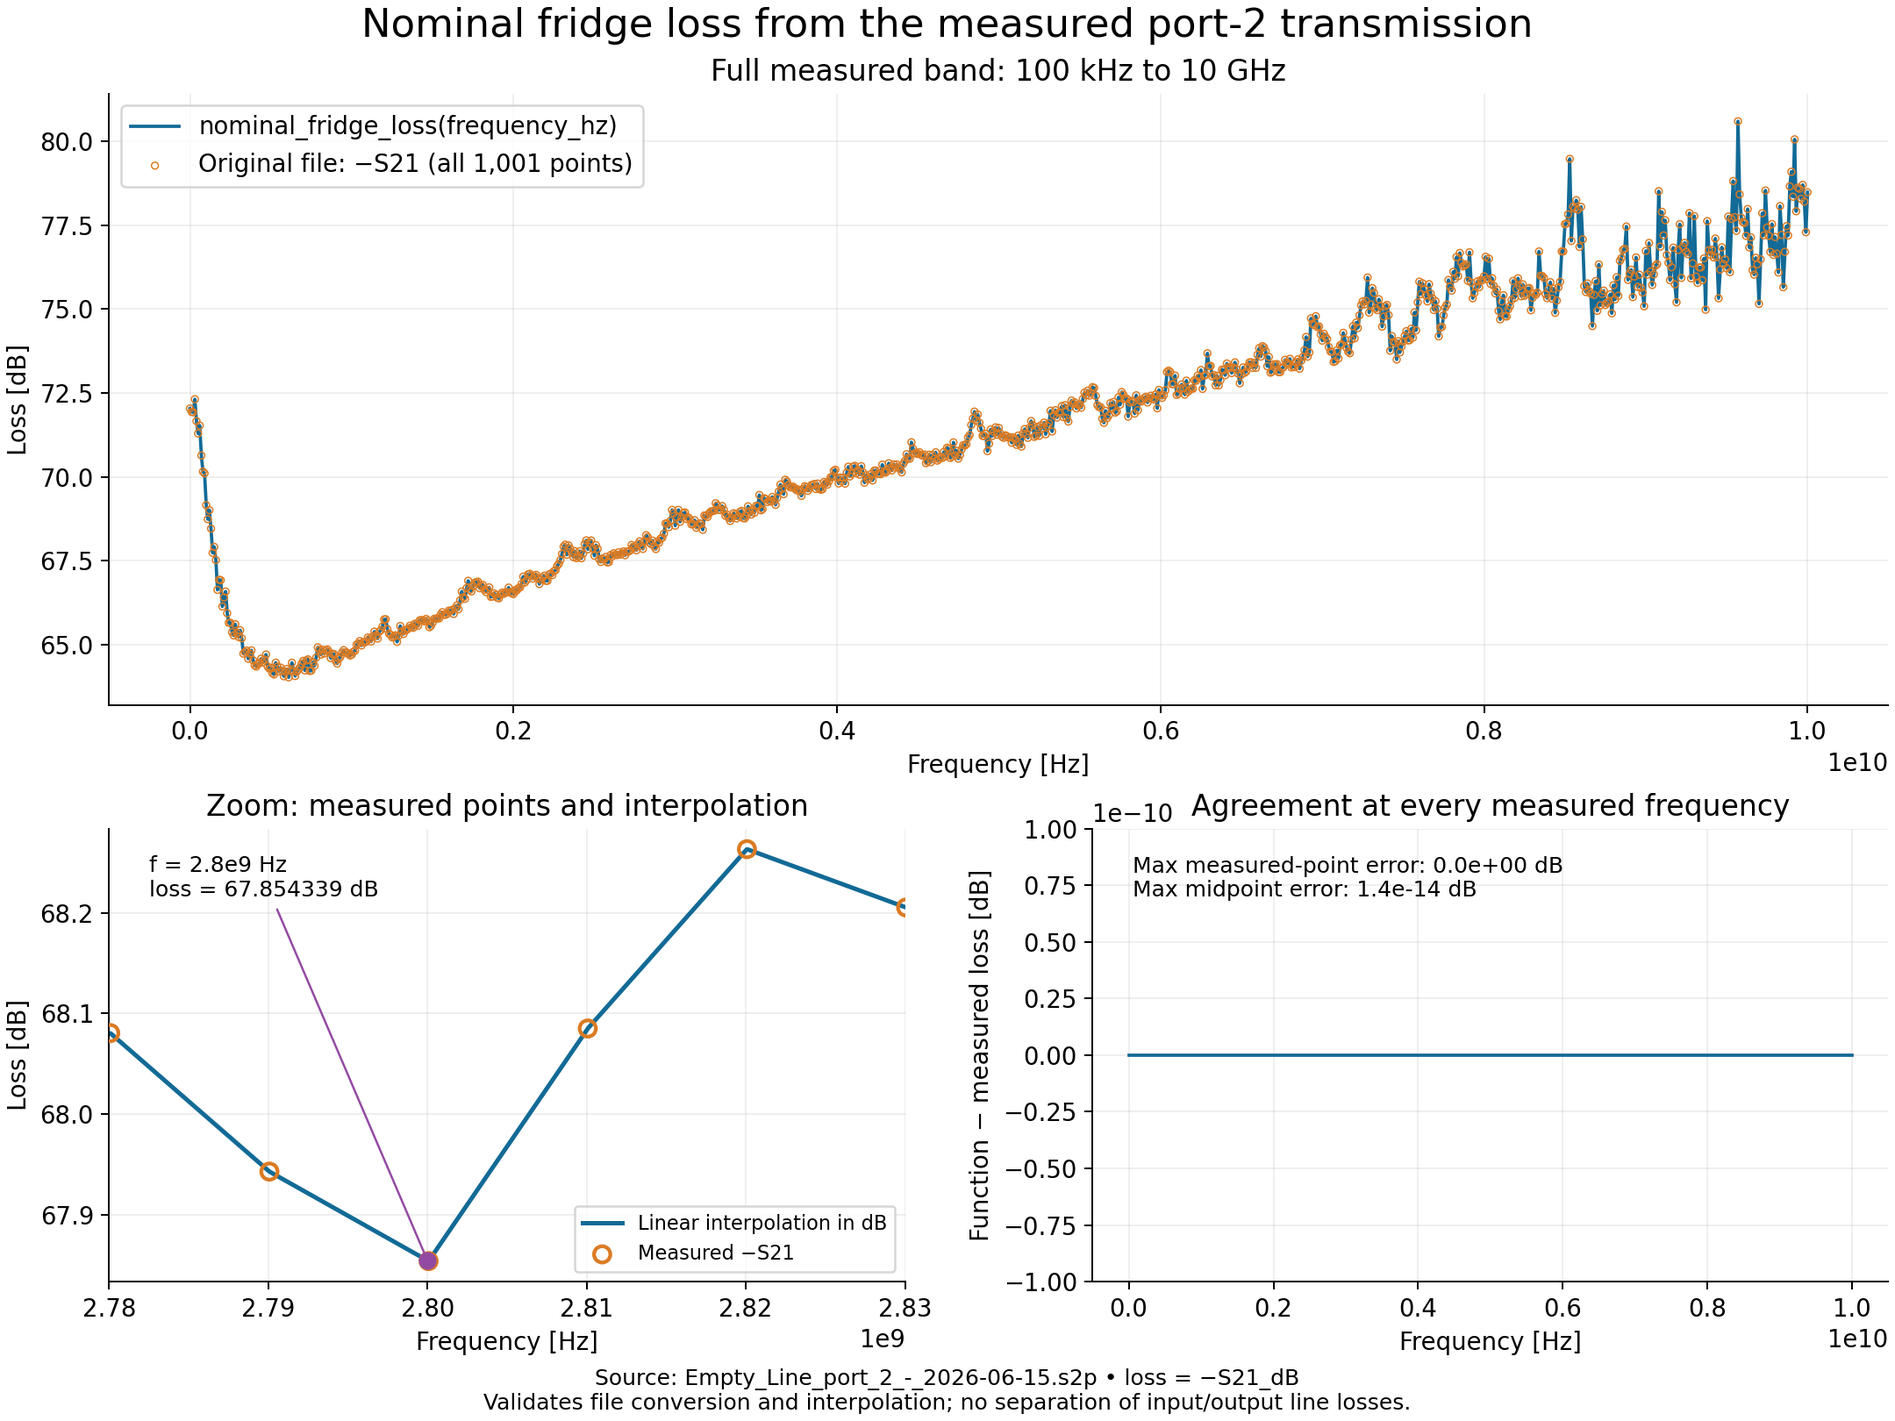
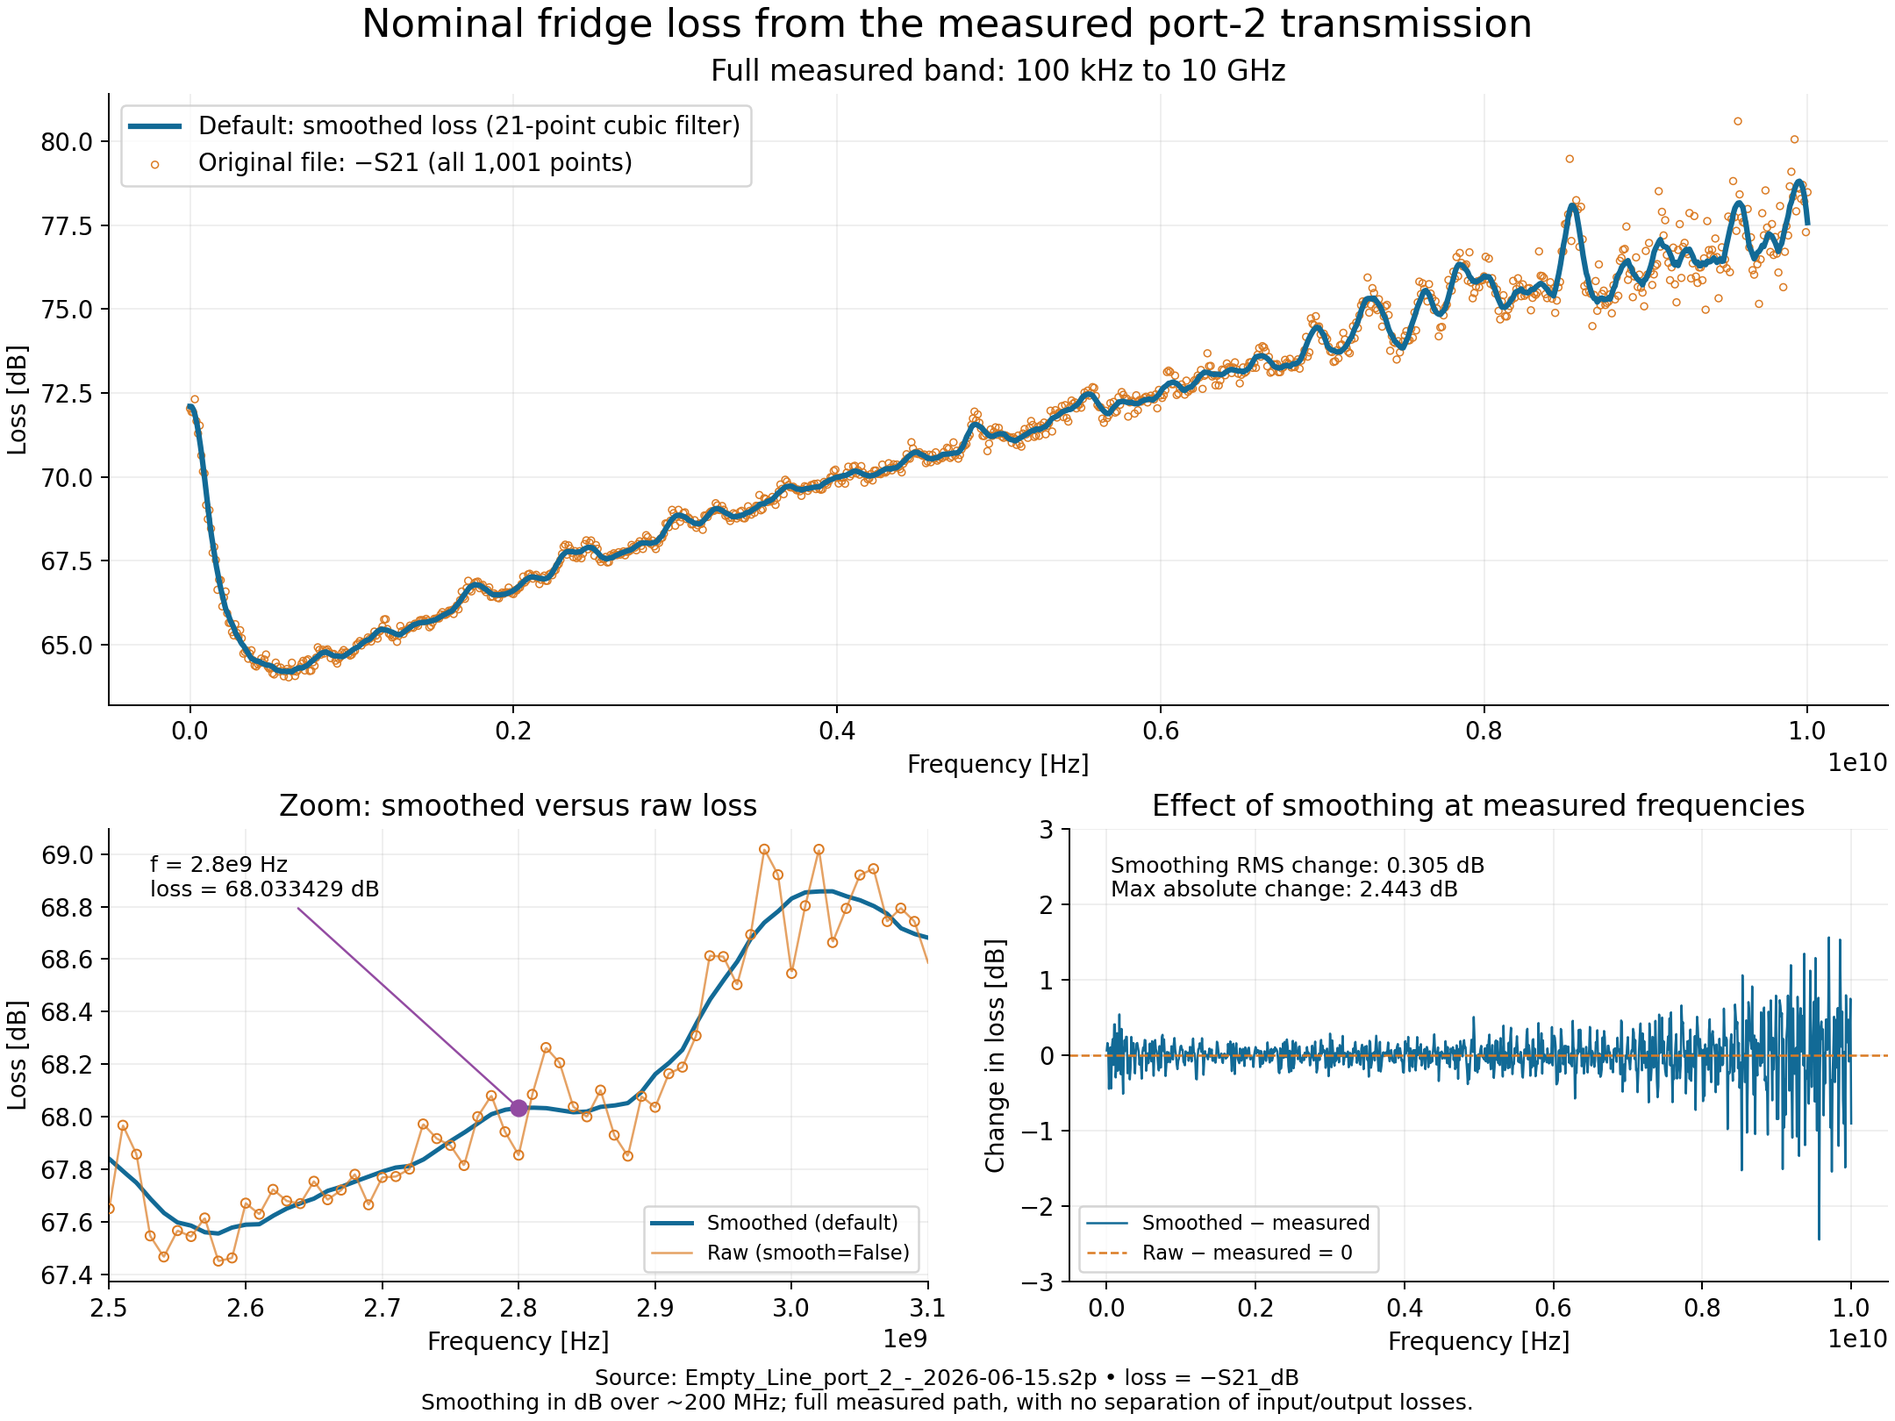
Smooth nominal fridge loss by default with raw opt-out

diff --git a/scripts/plot_nominal_fridge_loss.py b/scripts/plot_nominal_fridge_loss.py
@@ -24,9 +24,10 @@ source = ROOT / "daq/calibrations/source_data/Empty_Line_port_2_-_2026-06-15.s2p
 data = np.loadtxt(source, comments=["#", "!"])
 frequency_hz, s21_db = data[:, 0], data[:, 3]
 dense_hz = np.linspace(frequency_hz[0], frequency_hz[-1], 20001)
-residual_db = nominal_fridge_loss(frequency_hz) + s21_db
+residual_db = nominal_fridge_loss(frequency_hz, smooth=False) + s21_db
+adjustment_db = nominal_fridge_loss(frequency_hz) + s21_db
 midpoints_hz = (frequency_hz[:-1] + frequency_hz[1:]) / 2
-midpoint_error = nominal_fridge_loss(midpoints_hz) + (s21_db[:-1] + s21_db[1:]) / 2
+midpoint_error = nominal_fridge_loss(midpoints_hz, smooth=False) + (s21_db[:-1] + s21_db[1:]) / 2
 assert np.max(np.abs(residual_db)) < 1e-10
 assert np.max(np.abs(midpoint_error)) < 1e-10
 
@@ -42,8 +43,9 @@ full.plot(
     dense_hz,
     nominal_fridge_loss(dense_hz),
     color="#126a96",
-    lw=1.5,
-    label="nominal_fridge_loss(frequency_hz)",
+    lw=2.5,
+    zorder=4,
+    label="Default: smoothed loss (21-point cubic filter)",
 )
 full.scatter(
     frequency_hz,
@@ -58,20 +60,26 @@ full.scatter(
 full.set(title="Full measured band: 100 kHz to 10 GHz", ylabel="Loss [dB]", xlabel="Frequency [Hz]")
 full.legend(loc="upper left")
 
-selected = (frequency_hz >= 2.77e9) & (frequency_hz <= 2.84e9)
-zoom_hz = np.linspace(2.78e9, 2.83e9, 1001)
+selected = (frequency_hz >= 2.5e9) & (frequency_hz <= 3.1e9)
+zoom_hz = np.linspace(2.5e9, 3.1e9, 1001)
+zoom.plot(zoom_hz, nominal_fridge_loss(zoom_hz), color="#126a96", lw=2, label="Smoothed (default)")
 zoom.plot(
-    zoom_hz, nominal_fridge_loss(zoom_hz), color="#126a96", lw=2, label="Linear interpolation in dB"
+    zoom_hz,
+    nominal_fridge_loss(zoom_hz, smooth=False),
+    color="#db7b23",
+    alpha=0.7,
+    lw=1,
+    label="Raw (smooth=False)",
 )
 zoom.scatter(
     frequency_hz[selected],
     -s21_db[selected],
-    s=55,
+    s=18,
     facecolors="none",
     edgecolors="#db7b23",
-    linewidths=1.7,
+    linewidths=0.8,
     zorder=3,
-    label="Measured −S21",
+    label="_nolegend_",
 )
 example_hz = 2.8e9
 example_db = nominal_fridge_loss(example_hz)
@@ -85,35 +93,37 @@ zoom.annotate(
     arrowprops={"arrowstyle": "-", "color": "#934ba2"},
 )
 zoom.set(
-    title="Zoom: measured points and interpolation",
+    title="Zoom: smoothed versus raw loss",
     xlabel="Frequency [Hz]",
     ylabel="Loss [dB]",
-    xlim=(2.78e9, 2.83e9),
+    xlim=(2.5e9, 3.1e9),
 )
 zoom.legend(loc="lower right", fontsize=9)
 
-residual.plot(frequency_hz, residual_db, color="#126a96", lw=1.5)
+residual.plot(frequency_hz, adjustment_db, color="#126a96", lw=1, label="Smoothed − measured")
+residual.axhline(0, color="#db7b23", lw=1, linestyle="--", label="Raw − measured = 0")
 residual.set(
-    title="Agreement at every measured frequency",
+    title="Effect of smoothing at measured frequencies",
     xlabel="Frequency [Hz]",
-    ylabel="Function − measured loss [dB]",
-    ylim=(-1e-10, 1e-10),
+    ylabel="Change in loss [dB]",
+    ylim=(-3, 3),
 )
 residual.text(
     0.05,
     0.94,
-    f"Max measured-point error: {np.max(np.abs(residual_db)):.1e} dB\n"
-    f"Max midpoint error: {np.max(np.abs(midpoint_error)):.1e} dB",
+    f"Smoothing RMS change: {np.sqrt(np.mean(adjustment_db**2)):.3f} dB\n"
+    f"Max absolute change: {np.max(np.abs(adjustment_db)):.3f} dB",
     transform=residual.transAxes,
     va="top",
     fontsize=10,
 )
+residual.legend(loc="lower left", fontsize=9)
 for ax in (full, zoom, residual):
     ax.grid(alpha=0.2)
     ax.ticklabel_format(axis="x", style="sci", scilimits=(0, 0), useOffset=False)
 fig.supxlabel(
     "Source: Empty_Line_port_2_-_2026-06-15.s2p • loss = −S21_dB\n"
-    "Validates file conversion and interpolation; no separation of input/output line losses.",
+    "Smoothing in dB over ~200 MHz; full measured path, with no separation of input/output losses.",
     fontsize=10,
 )
 output = ROOT / "docs/nominal_fridge_loss.png"
@@ -121,3 +131,6 @@ fig.savefig(output, dpi=180)
 print(f"Saved {output}")
 print(f"Measured-point maximum error: {np.max(np.abs(residual_db)):.3g} dB")
 print(f"Midpoint maximum error: {np.max(np.abs(midpoint_error)):.3g} dB")
+
+print(f"Smoothing RMS change: {np.sqrt(np.mean(adjustment_db**2)):.6f} dB")
+print(f"Smoothing maximum change: {np.max(np.abs(adjustment_db)):.6f} dB")

diff --git a/tests/test_calibrations.py b/tests/test_calibrations.py
@@ -1,6 +1,6 @@
 """Offline regression tests for the packaged DAC power and fridge-loss calibrations.
 
-Run from the repository root with ``python tests/test_calibrations.py``.  Needs only numpy: the
+Run from the repository root with ``python tests/test_calibrations.py``. Needs numpy and scipy: the
 module is loaded by path so ``presto`` is never imported, and the source measurements it is
 checked against are committed under ``daq/calibrations/source_data/``.
 """
@@ -196,20 +196,26 @@ for label, fn in (
 fridge_path = REPO_ROOT / "daq/calibrations/source_data/Empty_Line_port_2_-_2026-06-15.s2p"
 fridge_data = np.loadtxt(fridge_path, comments=["#", "!"])
 check(
-    "fridge loss reproduces all measured S21 magnitudes with attenuation positive",
-    np.allclose(nominal_fridge_loss(fridge_data[:, 0]), -fridge_data[:, 3], rtol=0, atol=1e-10),
+    "raw fridge loss reproduces all measured S21 magnitudes with attenuation positive",
+    np.allclose(
+        nominal_fridge_loss(fridge_data[:, 0], smooth=False),
+        -fridge_data[:, 3],
+        rtol=0,
+        atol=1e-10,
+    ),
 )
 check(
     "fridge-loss endpoints accept Hz and return a scalar float",
     isinstance(nominal_fridge_loss(1e10), float)
-    and np.isclose(nominal_fridge_loss(1e5), 72.0394968383)
-    and np.isclose(nominal_fridge_loss(1e10), 78.4864410019),
+    and np.isclose(nominal_fridge_loss(1e5, smooth=False), 72.0394968383)
+    and np.isclose(nominal_fridge_loss(1e10, smooth=False), 78.4864410019)
+    and np.all(np.isfinite(nominal_fridge_loss([1e5, 1e10]))),
 )
 midpoint_hz = (fridge_data[280, 0] + fridge_data[281, 0]) / 2
 check(
-    "fridge loss interpolates in dB between measured frequencies",
+    "raw fridge loss interpolates in dB between measured frequencies",
     np.isclose(
-        nominal_fridge_loss(midpoint_hz),
+        nominal_fridge_loss(midpoint_hz, smooth=False),
         -(fridge_data[280, 3] + fridge_data[281, 3]) / 2,
         rtol=0,
         atol=1e-10,
@@ -224,10 +230,51 @@ check(
         [nominal_fridge_loss(f) for f in fridge_grid.ravel()],
     ),
 )
+smoothed = nominal_fridge_loss(fridge_data[:, 0])
+check(
+    "smoothing is enabled by default and changes the measured ripple",
+    np.array_equal(smoothed, nominal_fridge_loss(fridge_data[:, 0], smooth=True))
+    and not np.allclose(smoothed, -fridge_data[:, 3]),
+)
+check(
+    "smoothing reduces point-to-point curvature of the measured curve",
+    np.std(np.diff(smoothed, n=2)) < 0.2 * np.std(np.diff(-fridge_data[:, 3], n=2)),
+)
+check(
+    "smoothed result interpolates between adjacent smoothed calibration values",
+    np.isclose(
+        nominal_fridge_loss(midpoint_hz), (smoothed[280] + smoothed[281]) / 2, rtol=0, atol=1e-10
+    ),
+)
+# A cubic trend must survive the cubic filter, including its edge fits. An alternating
+# perturbation should be suppressed. Swap only the source fixture and restore the cache.
+original_loader = calibrations._load_fridge_loss
+synthetic_freqs = np.linspace(1e5, 1e10, 101)
+x = np.linspace(-1, 1, 101)
+trend = 70 + 2 * x + x**2 + 0.5 * x**3
+try:
+    calibrations._load_fridge_loss = lambda: (synthetic_freqs, trend)
+    calibrations._smoothed_fridge_loss.cache_clear()
+    check(
+        "smoothing preserves a cubic trend including both band edges",
+        np.allclose(nominal_fridge_loss(synthetic_freqs), trend, rtol=0, atol=1e-10),
+    )
+    noisy = trend + 0.5 * (-1.0) ** np.arange(101)
+    calibrations._load_fridge_loss = lambda: (synthetic_freqs, noisy)
+    calibrations._smoothed_fridge_loss.cache_clear()
+    check(
+        "smoothing suppresses a synthetic alternating perturbation",
+        np.sqrt(np.mean((nominal_fridge_loss(synthetic_freqs) - trend) ** 2)) < 0.1,
+    )
+finally:
+    calibrations._load_fridge_loss = original_loader
+    calibrations._smoothed_fridge_loss.cache_clear()
+
 for bad_freq in (0.0, -1.0, 2.8, 9e4, 1.001e10, np.nan, np.inf, [2.8e9, np.nan], [2.8e9, 1.1e10]):
     check(
         f"fridge loss rejects invalid frequency {bad_freq}",
-        raises(lambda: nominal_fridge_loss(bad_freq)),
+        raises(lambda: nominal_fridge_loss(bad_freq))
+        and raises(lambda: nominal_fridge_loss(bad_freq, smooth=False)),
     )
 
 failed = [label for label, ok in results if not ok]

diff --git a/daq/calibrations/__init__.py b/daq/calibrations/__init__.py
@@ -68,14 +68,28 @@ def _load_fridge_loss() -> Tuple[npt.NDArray[np.float64], npt.NDArray[np.float64
     return frequency_hz, loss_db
 
 
-def nominal_fridge_loss(freq_hz: FloatArray) -> FloatArray:
+@lru_cache(maxsize=1)
+def _smoothed_fridge_loss() -> npt.NDArray[np.float64]:
+    """Smooth the uniformly spaced measurement in dB, including polynomial edge fits."""
+    from scipy.signal import savgol_filter
+
+    _, loss_db = _load_fridge_loss()
+    return savgol_filter(loss_db, window_length=21, polyorder=3, mode="interp")
+
+
+def nominal_fridge_loss(freq_hz: FloatArray, *, smooth: bool = True) -> FloatArray:
     """Return nominal fridge insertion loss in dB at a frequency in Hz.
 
-    Linearly interpolates ``-S21_dB`` from the empty-line port-2 measurement dated
-    2026-06-15. This is the loss of the measured path, with no additional correction
+    Smooths ``-S21_dB`` from the empty-line port-2 measurement dated 2026-06-15 with a
+    21-point cubic Savitzky-Golay filter in dB, then linearly interpolates. The window
+    spans about 200 MHz; edges use polynomial fits (``mode="interp"``). Smoothing is
+    applied to the full calibration before evaluating the requested frequencies.
+    This is the loss of the measured path, with no additional correction
     for the input/output lines. Subtract it from source power in dBm to apply that loss.
 
     :param freq_hz: Frequency in Hz, scalar or array, from 1e5 to 1e10 inclusive.
+    :param smooth: Apply smoothing by default. Set to ``False`` to interpolate the
+        original measured dB values exactly, without smoothing.
     :returns: Loss in dB (positive for attenuation), a float for scalar input or an
         array with the input shape.
     :raises ValueError: If any frequency is non-finite or outside the measured band.
@@ -91,6 +105,8 @@ def nominal_fridge_loss(freq_hz: FloatArray) -> FloatArray:
             f"Frequency must be within the measured fridge-loss range "
             f"[{measured_freqs[0]:g}, {measured_freqs[-1]:g}] Hz."
         )
+    if smooth:
+        loss_db = _smoothed_fridge_loss()
     result = np.interp(frequencies, measured_freqs, loss_db)
     return float(result) if frequencies.ndim == 0 else result
 

diff --git a/CLAUDE.md b/CLAUDE.md
@@ -193,7 +193,7 @@ python tests/test_qc_trace.py        # QCTrace trigger routing and folding vs a 
 python tests/test_bias_hunt.py       # BiasHunt ungated acquisition and contrast ranking vs a mocked TimeStream (skips if presto absent)
 python tests/test_sweep_std_dev.py   # StdDevSweep's per-frequency QCTrace ranking (1-D) and simultaneous multitone rows (2-D), principal-axis invariance and record vs a mocked TimeStream (skips if presto absent)
 python tests/test_plotting.py        # plot_iq_comparison's single-frequency normalisation vs a synthetic resonator, and plot_psd's bases/panels/per-panel fits (no optional deps)
-python tests/test_calibrations.py    # the packaged power calibration vs the committed spectrum-analyzer sweeps it was built from, the verified-floor warning, and the hardware limits (numpy only)
+python tests/test_calibrations.py    # the packaged power calibration vs the committed spectrum-analyzer sweeps it was built from, the verified-floor warning, the hardware limits, and raw/smoothed fridge loss (numpy + scipy)
 ```
 
 Each prints one PASS/FAIL line per check and exits non-zero on failure. They are standalone scripts, not pytest suites — `tests/test_instruments.py` must inject its fake `pyvisa` before importing `daq.instruments` (and still needs `presto` importable, since `daq/__init__.py` pulls in the measurement classes; the drivers themselves have no presto dependency), and `tests/test_resonator.py` loads `daq/analysis/resonator.py` by path (bypassing `daq/__init__.py`, which pulls in `presto`) so the analysis layer stays verifiable on a machine with no presto install. `tests/test_plotting.py` does the same for `daq/analysis/plotting.py`, but under a synthetic parent package so the module's relative `from .resonator import ...` still resolves; it needs neither `presto` nor `resonator_tools` and so is the one suite that always runs (its `plot_psd` fit checks skip themselves if `iminuit` is absent, and it forces matplotlib's `Agg` backend so nothing opens a window). `tests/test_timestream_analyze.py` takes a third route: nothing in `analyze()`/`load()` reaches the hardware layer, so it **stubs** `presto` when the import fails and then imports `daq` normally, which keeps it running everywhere. It also puts the repository root on `sys.path` itself — run as a script, `tests/` is what lands there, so on a machine with an editable install of another checkout (a git worktree) the suite would otherwise exercise code nobody is editing; the other presto-dependent suites still have that hazard. Run them as scripts. Extend them when touching the instruments layer, `TimeStream.run()`, its HDF5 storage or `analyze()`'s bias dispatch, `QCTrace`'s trigger routing, `LEDPulsedRamp`'s LED sequencing or routing, the per-period digitisation in `qc_periods.py`, the flash-comb and folded-rate functions in `led_response.py`, the resonator-phase functions, `BiasHunt`'s ranking, `StdDevSweep`'s statistic or record, the resonator fitting adapter, or the basis transformations and PSD plotting in `plotting.py`. Note all four gate-bias measurement suites swap `TimeStream` in `daq/measurements/_gate_bias.py`, not in the measurement's own module — that is where the shared readout builder lives, and `StdDevSweep`'s multitone rows go through it too, so one swap covers both of its paths.
@@ -278,7 +278,7 @@ Power calibration module. Translates between DAC full-scale voltage amplitude (`
 - `amp_to_power_dbm(freq_ghz, amp)` — Forward conversion (used by `SweepPower` and `TwoTonePower` plots).
 - `power_dbm_to_amp(freq_ghz, power_dbm)` — Analytic inverse conversion to a voltage fraction; rejects powers above `P(1)`.
 - `min_verified_amp(freq_ghz)` — The floor below which both conversions warn (the larger of the two bracketing frequencies' floors).
-- `nominal_fridge_loss(freq_hz)` — Nominal loss in dB, linearly interpolated from `-S21_dB` in the packaged `source_data/Empty_Line_port_2_-_2026-06-15.s2p` measurement. Accepts scalar or array frequencies in Hz over 1e5–1e10 Hz; rejects non-finite or out-of-band values. Represents the full measured path without separating input and output line losses. Exported from `daq` and `daq.calibrations`.
+- `nominal_fridge_loss(freq_hz, *, smooth=True)` — Nominal loss in dB, smoothed with a 21-point cubic Savitzky–Golay filter (~200 MHz window, polynomial edge fits) then linearly interpolated from `-S21_dB` in the packaged `source_data/Empty_Line_port_2_-_2026-06-15.s2p` measurement. `smooth=False` restores raw interpolation; smoothing uses the full calibration regardless of requested frequencies. Accepts scalar or array frequencies in Hz over 1e5–1e10 Hz; rejects non-finite or out-of-band values. Represents the full measured path without separating input and output line losses. Exported from `daq` and `daq.calibrations`.
 
 `docs/power_calibration_interpolation.png` (regenerated by `scripts/plot_power_calibration_interpolation.py`) is the monitoring figure: the interpolated `P(1)` and verified floor across the band with every DAC-configuration switch marked, then nine off-grid frequencies each drawn between the calibrated neighbours that define it. Look at it after any rebuild of the asset — an off-grid line should lie between its neighbours' measurements, and the red-titled panels are exactly the intervals the limitation below is about. `docs/power_calibration_before_after.png` (`scripts/plot_power_calibration_before_after.py`) records what the four-corner grid this replaced returned.
 

diff --git a/README.md b/README.md
@@ -126,21 +126,26 @@ any rebuild. `docs/power_calibration_before_after.png`
 replaced.
 
 `nominal_fridge_loss(freq_hz)` returns the nominal fridge loss in **dB**, with frequency
-in **Hz** (scalar or array). It linearly interpolates `-S21_dB` from the packaged
-`Empty_Line_port_2_-_2026-06-15.s2p` measurement over 1e5–1e10 Hz. Non-finite or
+in **Hz** (scalar or array). By default it smooths `-S21_dB` from the packaged
+`Empty_Line_port_2_-_2026-06-15.s2p` measurement using a 21-point cubic Savitzky–Golay
+filter in dB (about a 200 MHz window), then linearly interpolates over 1e5–1e10 Hz.
+Edges use polynomial fits.
+Smoothing is applied to the full calibration, independently of the requested frequencies.
+Pass `smooth=False` for the original unsmoothed interpolation. Non-finite or
 out-of-range frequencies raise `ValueError`; there is no extrapolation. This represents
 the full measured empty-line path, without separating input and output line losses.
 
 ```python
 from daq import nominal_fridge_loss, amp_to_power_dbm
 
-loss_db = nominal_fridge_loss(2.8e9)
+loss_db = nominal_fridge_loss(2.8e9)  # smoothed by default
+raw_loss_db = nominal_fridge_loss(2.8e9, smooth=False)
 power_after_path_dbm = amp_to_power_dbm(2.8, 0.1) - loss_db
 ```
 
 The [fridge-loss validation plot](docs/nominal_fridge_loss.png) overlays all measured
-points, zooms in on interpolation, and shows the residuals. Regenerate it with
-`python scripts/plot_nominal_fridge_loss.py`.
+points, compares smoothed and raw curves, and shows the changes introduced by smoothing.
+Regenerate it with `python scripts/plot_nominal_fridge_loss.py`.
 
 ## Tests
 
